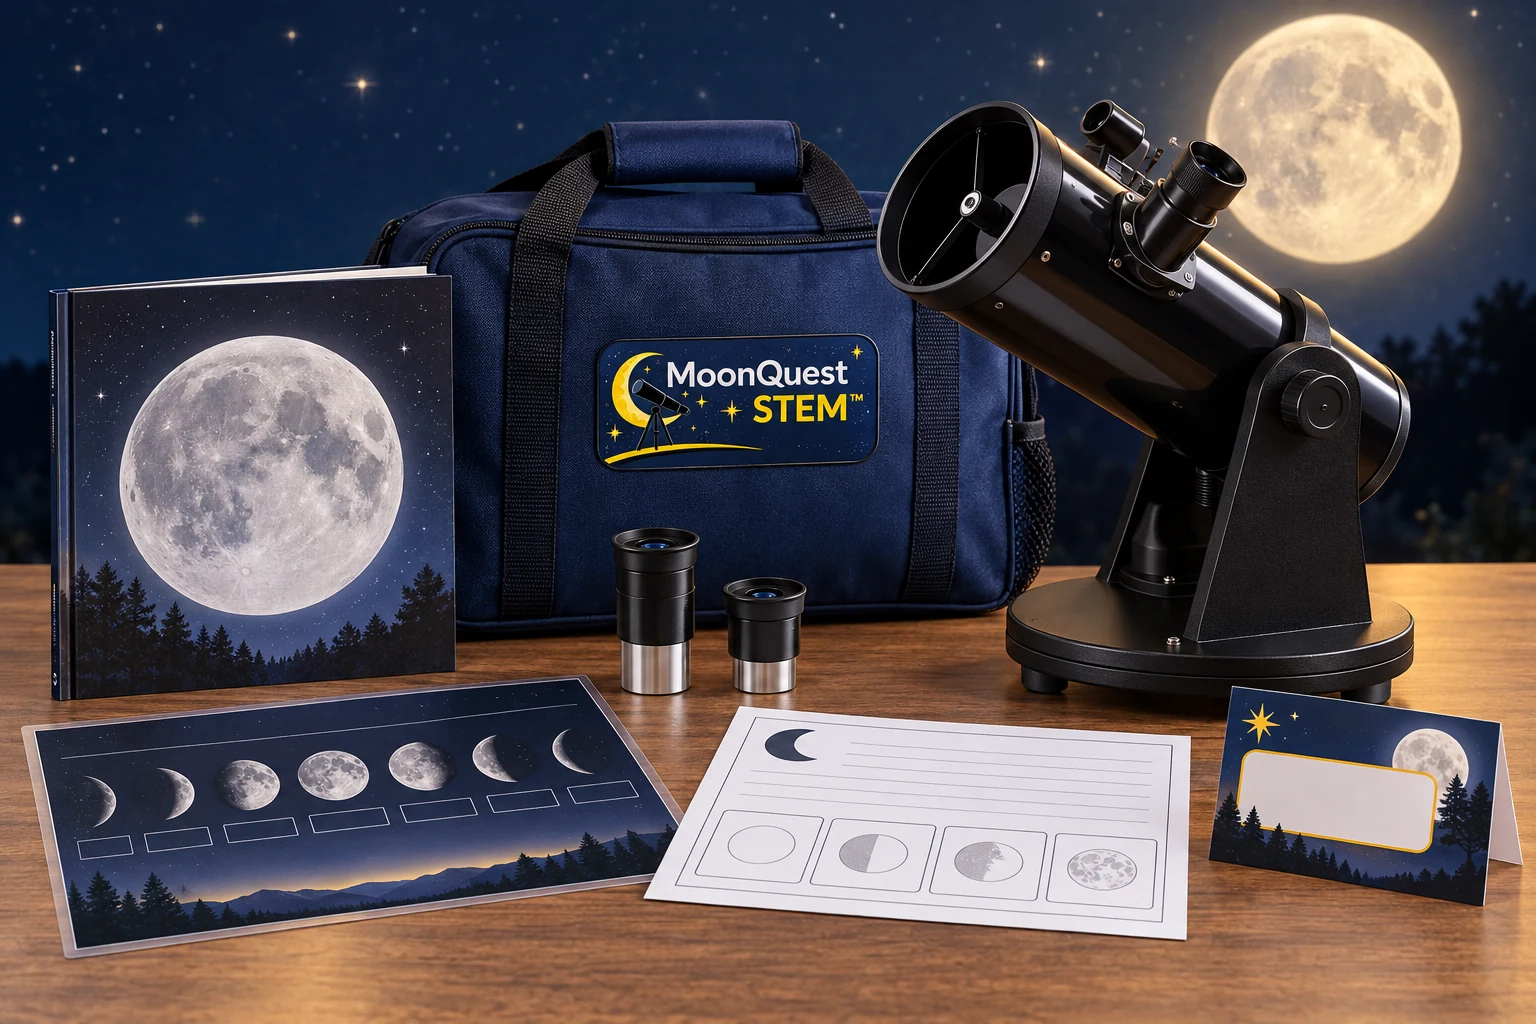
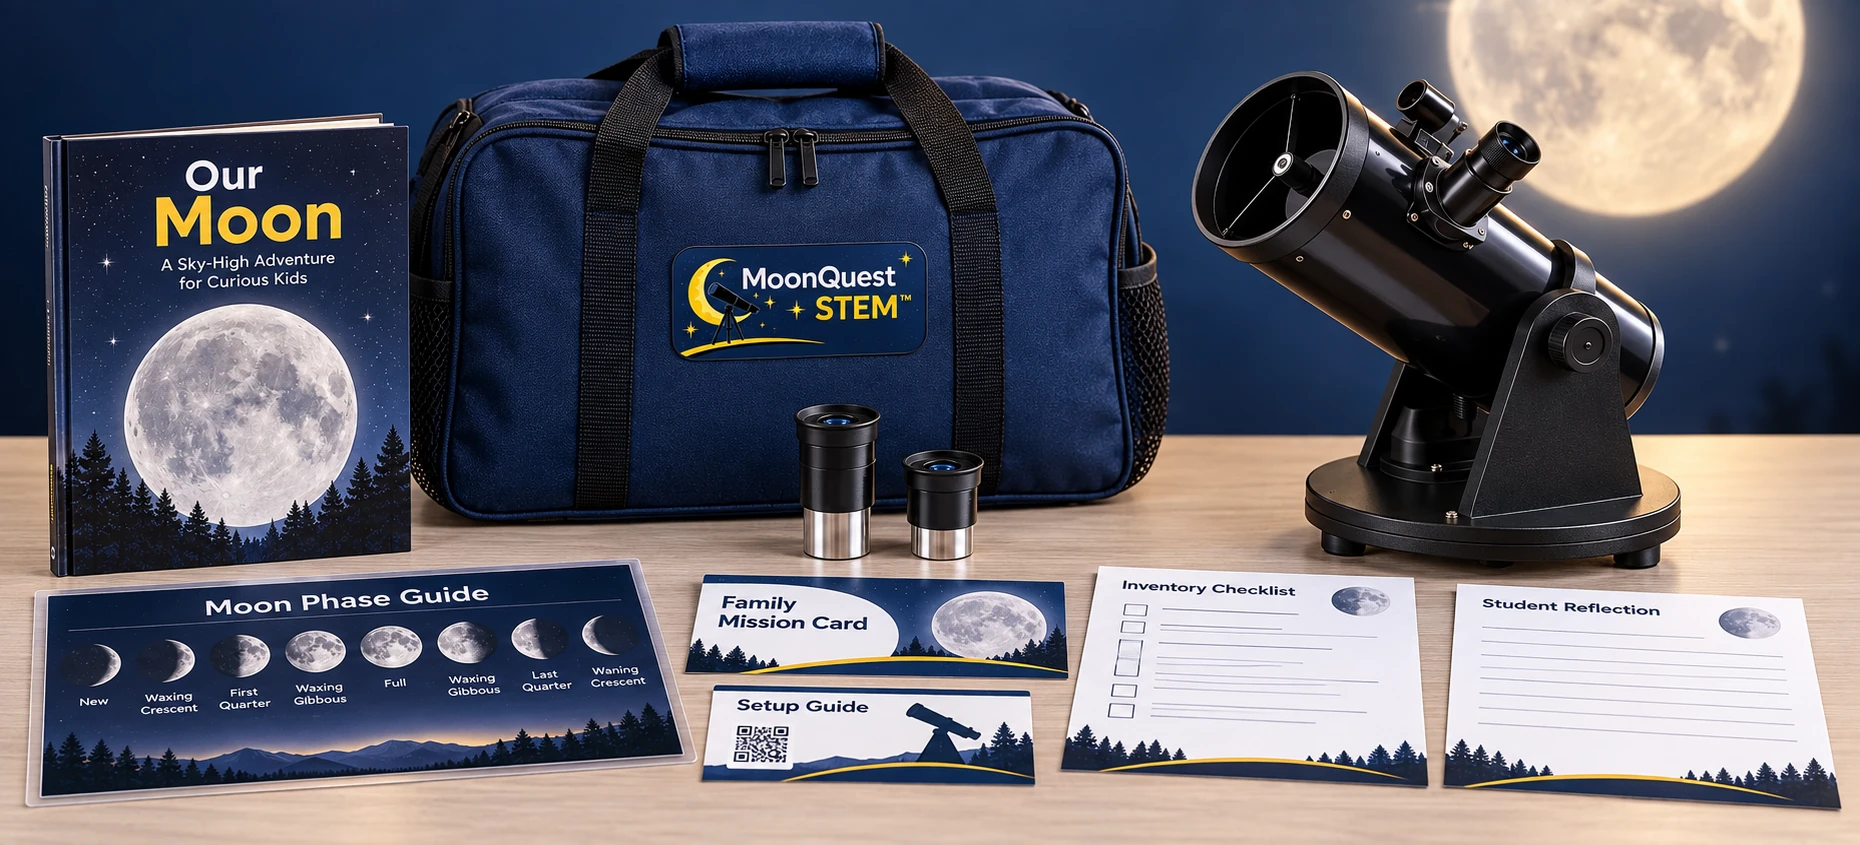
Widen take-home kit hero presentation

diff --git a/index.html b/index.html
@@ -93,7 +93,7 @@
   /* Hero */
   .hero{position:relative;background:radial-gradient(120% 120% at 80% -10%, #123a6e 0%, var(--navy) 55%);color:#fff;overflow:hidden;}
   .hero .stars{position:absolute;inset:0;pointer-events:none;}
-  .hero-grid{display:grid;grid-template-columns:1.05fr 1fr;gap:54px;align-items:center;padding:84px 0 92px;position:relative;z-index:2;}
+  .hero-grid{display:grid;grid-template-columns:1fr 1.18fr;gap:44px;align-items:center;padding:84px 0 92px;position:relative;z-index:2;}
   .hero h1{font-size:clamp(2.5rem,5vw,4rem);}
   .hero h1 .accent{color:var(--gold);}
   .hero p.sub{font-size:1.18rem;color:#cdd9ec;margin:22px 0 32px;max-width:560px;}
@@ -102,7 +102,7 @@
   .trust svg{flex:none;}
   .hero-art{position:relative;}
   .hero-art > svg{display:none;}
-  .hero-shot{width:100%;height:auto;aspect-ratio:3/2;object-fit:cover;object-position:center;border-radius:8px;border:1px solid rgba(255,255,255,.18);box-shadow:0 24px 60px rgba(0,0,0,.32);}
+  .hero-shot{width:100%;height:auto;aspect-ratio:1860/845;object-fit:cover;object-position:center;border-radius:8px;border:1px solid rgba(255,255,255,.18);box-shadow:0 24px 60px rgba(0,0,0,.32);}
   .hero-caption{margin:9px 4px 0;color:#9fb0c9;font-size:.75rem;text-align:right;}
 
   /* Generic cards / grids */
@@ -272,7 +272,7 @@
         </div>
       </div>
       <div class="hero-art">
-        <img class="hero-shot" src="moonquest-kit-hero.webp" alt="Concept rendering of a MoonQuest Explorer Kit with telescope, carry bag, Moon book, phase guide, reflection sheet, eyepieces, and family mission card" width="1536" height="1024" fetchpriority="high" />
+        <img class="hero-shot" src="moonquest-kit-hero.webp" alt="Concept rendering of a take-home-ready MoonQuest Explorer Kit with telescope, carry bag, Moon book, phase guide, family mission card, setup guide, inventory checklist, student reflection sheet, and two eyepieces" width="1860" height="845" fetchpriority="high" />
         <p class="hero-caption">Concept rendering. Final kit contents and appearance may vary.</p>
         <!-- Hero illustration: kit, telescope, book, reflection sheet, mission card under a moon -->
         <svg viewBox="0 0 520 460" xmlns="http://www.w3.org/2000/svg" role="img" aria-label="MoonQuest Explorer Kit with telescope, Moon-themed book, reflection sheet, and family mission card under a full moon and stars">
